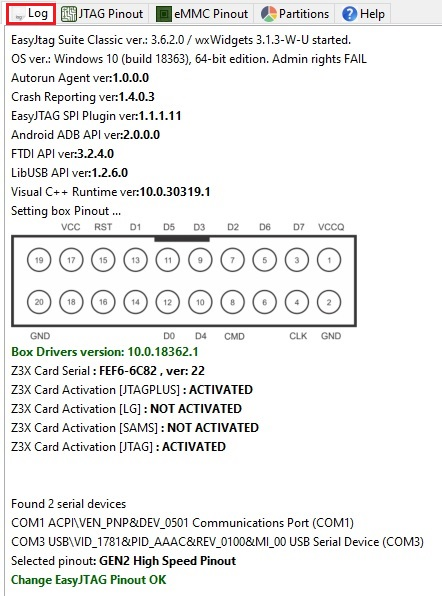
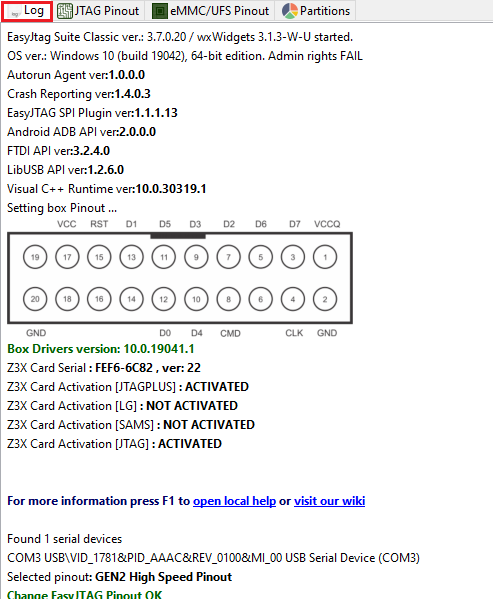
Log Page, Jtag Page, eMMC/UFS Pinout Page and some images updated.

Changed region(s): [[0.0, 0.0, 1.0, 1.0]]

diff --git a/contents/eMMCPinoutHelper.htm b/contents/eMMCPinoutHelper.htm
@@ -1,0 +1,46 @@
+<?xml version="1.0" encoding="utf-8" ?>
+<!DOCTYPE html>
+<html xmlns="http://www.w3.org/1999/xhtml">
+<head>
+  <meta http-equiv="Content-Type" content="text/html; charset=utf-8" />
+  <title>EMMC/UFS Pinout Helper</title>
+  <meta name="generator" content="Adobe RoboHelp 2019" />
+  <link rel="stylesheet" href="assets/css/default.css" type="text/css" />
+</head>
+<body>
+  <h1>eMMC/UFS Pinout Helper</h1>
+  <p>
+    <font size="3"><strong>eMMC Pinout tab</strong> - Shows a picture with marked pads for soldering the Data wires and Power wires.</font>
+  </p>
+  <p>
+    <font size="3"><strong>2.8V, 1.8V,</strong>  <strong>GND</strong> (&quot;<strong>Ground</strong>&quot;) are the Power lines;</font>
+  </p>
+  <p>
+    <font size="3"><strong>CLK, DAT0, CMD</strong> are the Data lines.</font>
+  </p>
+  <p>
+    <font size="3"><strong><font color="#ff0000">Important!</font></strong> The Power wires and the Data wires should be as short as possible.</font>
+  </p>
+  <p>
+    <font size="3">Also the Power wires must be thicker than Data wires.</font>
+  </p>
+  <p><img alt="EMMC/UFS Pinout Helper" src="assets/images/eMMC_UFS_Pinout_Helper.jpg" title="EasyJTAG Classic User Interface" /></p>
+  <p>
+    <font size="3"><strong>Typical eMMC Pinout</strong></font>
+  </p>
+  <p> </p>
+  <p> </p>
+  <table class="box bottomline">
+    <tbody>
+      <tr>
+        <th><a href="Interface.htm">Software Interface</a></th>
+      </tr>
+    </tbody>
+  </table>
+  <p> </p>
+  <p> </p>
+  <div id="nstext">
+    <hr/>
+  </div>
+</body>
+</html>

diff --git a/contents/SoftwareInterface.htm b/contents/SoftwareInterface.htm
@@ -11,13 +11,13 @@
   <h1>EasyJTAG Classic Software Interface</h1>
   <p> </p>
   <p>EasyJtag Classic User Software Interface contains tabs, checkboxes, buttons and other standard elements.</p>
-  <p><img alt="EasyJTAG Classic User Interface" src="assets/images/easyjtagclassicui_clean.png" title="EasyJTAG Classic User Interface" /></p>
+  <p><img alt="EasyJTAG Classic User Interface" src="assets/images/easyjtagclassicui.png" title="EasyJTAG Classic User Interface" /></p>
   <p> </p>
   <p><span style="font-size: 11pt;">On the </span><strong style="font-size: 11pt;">Left side</strong><span style="font-size: 11pt;"> of the main interface are:</span></p>
   <ul class="Disc">
     <li><a href="LogPage.htm">Log Page</a></li>
     <li><a href="JTAGPinoutHelper.htm">Jtag Pinout Helper</a></li>
-    <li><a href="eMMCPinoutHelper.htm">eMMC Pinout Helper</a></li>
+    <li><a href="eMMCPinoutHelper.htm">eMMC/UFS Pinout Helper</a></li>
     <li><a href="GPTPartitionsTool.htm">GPT Partitions Tool</a></li>
     <li><a href="HelpSystem.htm">Help System</a></li>
   </ul>
@@ -32,8 +32,7 @@
     <li><a href="NANDPage.htm">NAND Page</a> (description in progress ...)</li>
   </ul>
   <p> </p>
-  <p><br />
-    The Design and Functionality of the interface elements may change as they improve.</p>
+  <p><br/> The Design and Functionality of the interface elements may change as they improve.</p>
   <p> </p>
   <p><a href="Introduce.htm">Introduce</a></p>
 </body>

diff --git a/contents/JTAGPinoutHelper.htm b/contents/JTAGPinoutHelper.htm
@@ -1,0 +1,24 @@
+<?xml version="1.0" encoding="utf-8" ?>
+<!DOCTYPE html>
+<html xmlns="http://www.w3.org/1999/xhtml">
+<head>
+  <meta http-equiv="Content-Type" content="text/html; charset=utf-8" />
+  <title>JTAG Pinout Helper</title>
+  <meta name="generator" content="Adobe RoboHelp 2019" />
+  <link rel="stylesheet" href="assets/css/default.css" type="text/css" />
+</head>
+<body>
+  <h1>JTAG Pinout Helper</h1>
+  <p><strong>JTAG Pinout tab</strong> - Shows a picture with marked pads for soldering the Data wires and GND (&quot;Ground&quot;)  wire.</p>
+  <p> </p>
+  <p><strong>TMS, TCK, TDI, TDO, TRST, SRST</strong>   are the Data lines.</p>
+  <p> </p>
+  <p><strong style="color: rgb(255,0,0)">Important!</strong> The GND wire and the Data wires should be as short as possible.</p>
+  <p> </p>
+  <p>Also the GND wire must be thicker than Data wires.</p>
+  <p> </p>
+  <p><img src="assets/images/JTAG_Pinout_Helper.jpg" /></p>
+  <p><a href="SoftwareInterface.htm">Software Interface</a></p>
+  <p> </p>
+</body>
+</html>
